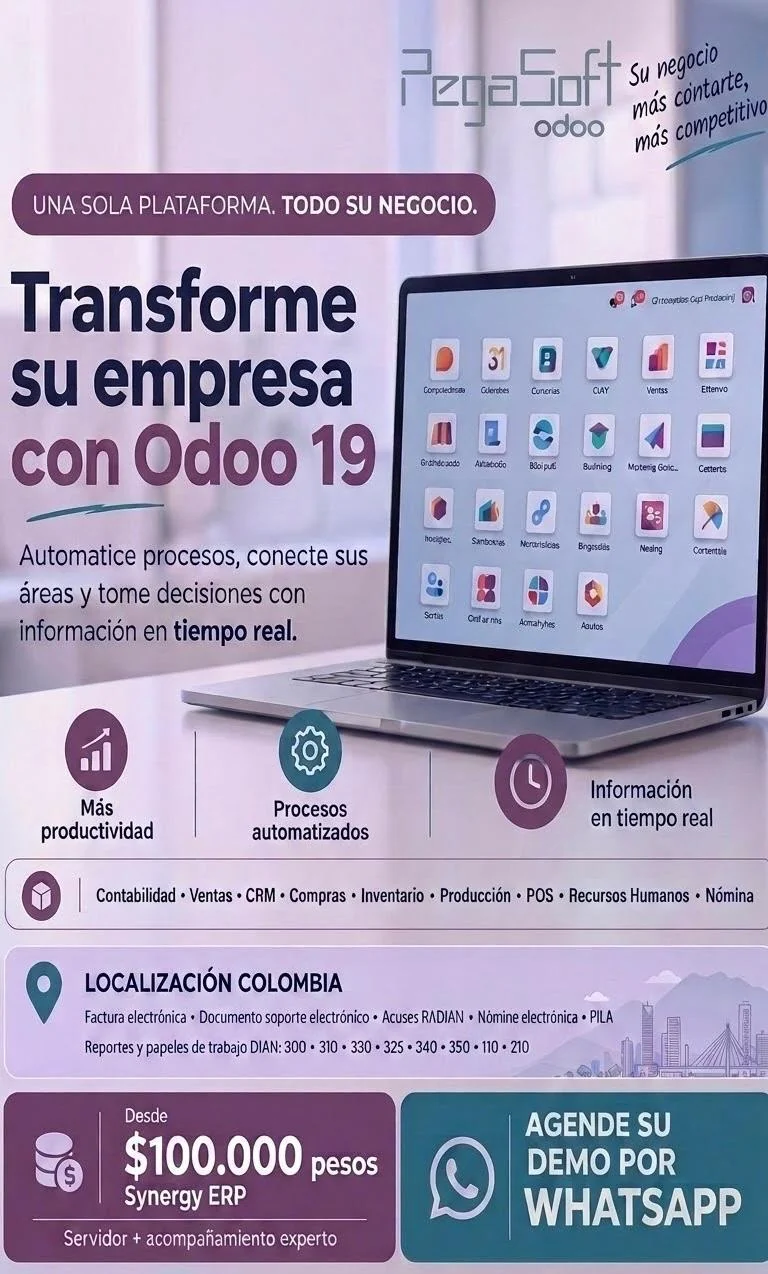
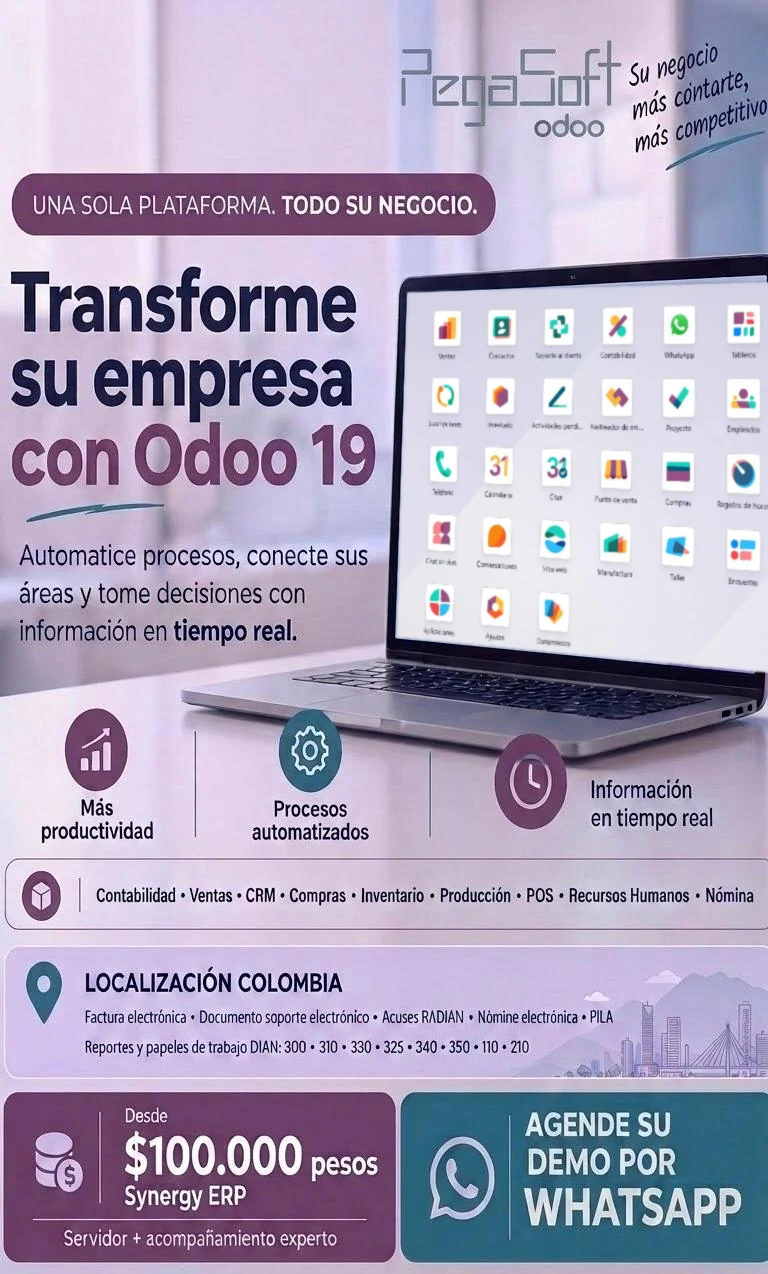
Planes de Mónica con foco en soporte, soporte técnico, portátil corregido y títulos de videos
Claude-Session: https://claude.ai/code/session_01Mc5WrL3zMMahActahP6YoB

Changed region(s): [[0.5, 0.2143, 1.0, 0.551]]

diff --git a/index.html b/index.html
@@ -190,6 +190,30 @@ header.scrolled{background:rgba(6,10,22,.92);box-shadow:0 10px 30px rgba(0,0,0,.
 .lbx:hover{border-color:var(--c)}
 @media(max-width:1180px){.menu{gap:14px;font-size:13px}}
 @media(max-width:1040px){.menu{display:none}}
+
+.psub{text-align:center;color:var(--mut);max-width:34em;margin:8px auto 0}
+.plans{display:grid;grid-template-columns:repeat(auto-fit,minmax(260px,1fr));gap:22px;max-width:1000px;margin:30px auto 0;align-items:stretch}
+.plan{display:flex;flex-direction:column;border:1px solid var(--line);border-radius:24px;overflow:hidden;background:var(--card);transition:transform .25s,border-color .25s,box-shadow .25s}
+.plan:hover{transform:translateY(-5px);border-color:rgba(34,211,238,.5);box-shadow:0 24px 60px rgba(34,211,238,.10)}
+.psup{display:flex;align-items:center;gap:14px;padding:20px 24px;background:linear-gradient(135deg,rgba(34,211,238,.22),rgba(139,92,246,.28));border-bottom:1px solid var(--line)}
+.psup svg{width:34px;height:34px;flex:none;stroke:#67e8f9;fill:none;stroke-width:1.8;stroke-linecap:round;stroke-linejoin:round}
+.psup b{display:block;font-size:28px;line-height:1.05;color:#fff;letter-spacing:-.02em}
+.psup span{font-size:13px;color:#c7d0ee}
+.pbody{display:flex;flex-direction:column;flex:1;padding:22px 24px 24px}
+.pname{font-size:12px;font-weight:700;letter-spacing:.14em;text-transform:uppercase;color:#67e8f9}
+.pbody h4{font-size:22px;color:#fff;margin:4px 0 12px}
+.pprice b{font-size:34px;letter-spacing:-.03em;color:#fff}.pprice small{display:block;color:var(--mut);font-size:13px}
+.pbody ul{list-style:none;padding:0;margin:18px 0 22px;display:grid;gap:10px;color:var(--mut);font-size:15px;flex:1}
+.pbody li{padding-left:24px;position:relative}.pbody li:before{content:"✓";position:absolute;left:0;color:#22d3ee;font-weight:800}
+.pbody .btn{justify-content:center}
+.pnote{text-align:center;color:var(--mut);font-size:14px;margin-top:18px}
+.support{display:grid;grid-template-columns:1.2fr .8fr;gap:28px;align-items:center;max-width:1000px;margin:48px auto 0;padding:32px;border:1px solid var(--line);border-radius:26px;background:linear-gradient(145deg,rgba(255,255,255,.07),rgba(255,255,255,.02));box-shadow:0 30px 80px rgba(0,0,0,.35),inset 0 1px 0 rgba(255,255,255,.1)}
+.support h3{font-size:26px;color:#fff;margin:12px 0 6px}.support p{color:var(--mut);margin-bottom:18px}
+.sprice{border:1px solid rgba(34,211,238,.3);border-radius:18px;padding:18px 20px;background:rgba(34,211,238,.07);margin-bottom:14px}
+.sprice small{display:block;color:var(--mut);font-size:13px}.sprice b{display:block;font-size:42px;line-height:1.1;letter-spacing:-.03em;background:var(--grad);-webkit-background-clip:text;background-clip:text;color:transparent;width:fit-content}
+.sprice span{color:#c7d0ee;font-size:14px}
+.slist{list-style:none;padding:0;margin:0;display:grid;gap:6px;color:var(--mut);font-size:14px}.slist b{color:#fff}
+@media(max-width:820px){.support{grid-template-columns:1fr;padding:24px}}
 </style>
 <script>document.documentElement.classList.add('js')</script>
 </head>
@@ -246,20 +270,47 @@ header.scrolled{background:rgba(6,10,22,.92);box-shadow:0 10px 30px rgba(0,0,0,.
 <div class="mcards"><div class="card"><div class="ic"><svg viewBox="0 0 24 24"><path d="M6 2h9l5 5v15H6z"/><path d="M14 2v6h6M9 13h6M9 17h6"/></svg></div><h3>Facturación</h3><p>Crea, modifica y controla tus facturas, con devoluciones y consolidados de ventas por fechas y clientes.</p></div><div class="card"><div class="ic"><svg viewBox="0 0 24 24"><path d="M21 8 12 3 3 8v8l9 5 9-5z"/><path d="m3 8 9 5 9-5M12 13v8"/></svg></div><h3>Inventarios</h3><p>Existencias, listas de precios, costos, órdenes de compra y kárdex de cada producto.</p></div><div class="card"><div class="ic"><svg viewBox="0 0 24 24"><path d="M4 19V5M4 19h16M8 15v-4M12 15V8M16 15v-6"/></svg></div><h3>Contabilidad</h3><p>Partida doble, libro diario, mayor, balance y estado de ganancias y pérdidas.</p></div><div class="card"><div class="ic"><svg viewBox="0 0 24 24"><path d="M3 7h18v12H3z"/><path d="M3 11h18M7 15h3"/></svg></div><h3>Cuentas por cobrar y pagar</h3><p>Saldos de clientes y proveedores, vencimientos y pagos parciales al día.</p></div><div class="card"><div class="ic"><svg viewBox="0 0 24 24"><path d="M3 10 12 4l9 6M5 10v8M9 10v8M15 10v8M19 10v8M3 20h18"/></svg></div><h3>Bancos y cuentas corrientes</h3><p>Cheques, depósitos y conciliación con el estado de cuenta del banco.</p></div><div class="card"><div class="ic"><svg viewBox="0 0 24 24"><path d="M12 3v12m0 0-4-4m4 4 4-4M4 19h16"/></svg></div><h3>Reportes y respaldos</h3><p>Informes listos para imprimir o exportar y copias de seguridad de tu información.</p></div></div>
 <aside class="mside">
 <h3>Elige tu versión</h3>
-<p>Te ayudamos a escoger la que mejor se ajusta a tu negocio, e instalarla y capacitar a tu equipo.</p>
+<p>Te ayudamos a escoger tu versión y te acompañamos con soporte técnico.</p>
 <a class="ver" href="#contacto" data-ver="8.5"><span><b>Mónica 8.5</b><small>Pedir información</small></span><i>→</i></a>
 <a class="ver" href="#contacto" data-ver="9"><span><b>Mónica 9</b><small>Pedir información</small></span><i>→</i></a>
 <a class="ver" href="#contacto" data-ver="10"><span><b>Mónica 10</b><small>Pedir información</small></span><i>→</i></a>
 <a class="ver" href="#contacto" data-ver="11"><span><b>Mónica 11</b><small>Pedir información</small></span><i>→</i></a>
 <ul class="mfacts">
+<li><b style="color:#fff">Soporte técnico y acompañamiento de PegaSoft.</b></li>
 <li>De un computador a una red de hasta 25 equipos.</li>
 <li>Exporta tus informes a PDF, Excel y Word.</li>
-<li>Soporte y acompañamiento de PegaSoft.</li>
 </ul>
 </aside>
 </div>
-<h3 class="ph">Planes con facturación electrónica</h3>
-<div class="promos one"><figure class="promo"><button class="pimg" type="button" data-full="img/monica-planes.webp" aria-label="Ampliar: Planes de facturación electrónica con Mónica"><img src="img/monica-planes.webp" width="926" height="1280" loading="lazy" alt="Afiche: planes de facturación electrónica con Mónica, en tres niveles: Principiante, Profesional y Experto, con soporte e implementación incluidos."></button><figcaption><b>Planes de facturación electrónica con Mónica</b><a class="btn btn-p btn-sm" href="#contacto" data-msg="Hola, quiero información sobre los planes de facturación electrónica con Mónica.">Solicitar información →</a></figcaption></figure></div>
+<h3 class="ph">Mónica con el respaldo de nuestro soporte</h3>
+<p class="psub">Elige tu versión y el tiempo de soporte y acompañamiento que necesitas.</p>
+<div class="plans"><article class="plan">
+<div class="psup"><svg viewBox="0 0 24 24"><path d="M4 13v-1a8 8 0 0 1 16 0v1M4 13h3v5H5a1 1 0 0 1-1-1zM20 13h-3v5h2a1 1 0 0 0 1-1zM17 19c0 1.5-2 2-5 2"/></svg><div><b>3 meses</b><span>de soporte técnico</span></div></div>
+<div class="pbody"><span class="pname">Principiante</span><h4>Mónica 8.5</h4>
+<div class="pprice"><b>$300.000</b><small>COP · pago único</small></div>
+<ul><li>Implementación incluida</li><li>Facturación electrónica con paquetes</li><li>Acceso a todos los módulos</li></ul>
+<a class="btn btn-p" href="#contacto" data-msg="Hola, quiero información sobre el plan Principiante (Mónica 8.5).">Quiero este plan →</a></div>
+</article><article class="plan">
+<div class="psup"><svg viewBox="0 0 24 24"><path d="M4 13v-1a8 8 0 0 1 16 0v1M4 13h3v5H5a1 1 0 0 1-1-1zM20 13h-3v5h2a1 1 0 0 0 1-1zM17 19c0 1.5-2 2-5 2"/></svg><div><b>1 año</b><span>de soporte técnico</span></div></div>
+<div class="pbody"><span class="pname">Profesional</span><h4>Mónica 9</h4>
+<div class="pprice"><b>$700.000</b><small>COP · pago único</small></div>
+<ul><li>Nube para envío de facturas: 60 facturas incluidas</li><li>Manejo de bodegas, auditoría y sucursales</li><li>Acceso a todos los módulos</li></ul>
+<a class="btn btn-p" href="#contacto" data-msg="Hola, quiero información sobre el plan Profesional (Mónica 9).">Quiero este plan →</a></div>
+</article><article class="plan">
+<div class="psup"><svg viewBox="0 0 24 24"><path d="M4 13v-1a8 8 0 0 1 16 0v1M4 13h3v5H5a1 1 0 0 1-1-1zM20 13h-3v5h2a1 1 0 0 0 1-1zM17 19c0 1.5-2 2-5 2"/></svg><div><b>1 año</b><span>de soporte técnico</span></div></div>
+<div class="pbody"><span class="pname">Experto</span><h4>Mónica 10 o 11</h4>
+<div class="pprice"><b>$1.300.000</b><small>COP · pago único</small></div>
+<ul><li>Facturación electrónica, documento soporte y acuses a proveedores ilimitados</li><li>Manejo de bodegas, auditoría y sucursales</li><li>Acceso a todos los módulos</li></ul>
+<a class="btn btn-p" href="#contacto" data-msg="Hola, quiero información sobre el plan Experto (Mónica 10 o 11).">Quiero este plan →</a></div>
+</article></div>
+<p class="pnote">Configuración instantánea · Satisfacción total o le devolvemos su dinero.</p>
+<div class="support" id="soporte">
+<div class="sleft"><span class="tag">SOPORTE TÉCNICO</span><h3>Soporte técnico de PegaSoft</h3>
+<p>Llámanos o escríbenos y te acompañamos con tu programa.</p>
+<div class="cta-row"><a class="btn btn-p" href="tel:+576016964191,2">Llamar al PBX · Ext. 2</a><a class="btn btn-o" href="https://wa.me/573003450000" target="_blank" rel="noopener">WhatsApp</a><a class="btn btn-o" href="#videos">Ver videos de ayuda</a></div></div>
+<div class="sright"><div class="sprice"><small>Hora o fracción de soporte</small><b>$80.000</b><span>Lunes a viernes · horario de oficina</span></div>
+<ul class="slist"><li><b>PBX</b> +57 (1) 696 4191 · Ext. 2 Soporte técnico</li><li><b>WhatsApp</b> 300 345 0000</li></ul></div>
+</div>
 <p class="mnote">Los módulos disponibles pueden variar según la versión. MONICA es una marca de Technotel Inc.</p>
 </div></section>
 
@@ -329,18 +380,18 @@ header.scrolled{background:rgba(6,10,22,.92);box-shadow:0 10px 30px rgba(0,0,0,.
 <button class="btn btn-p" style="border:0;justify-content:center;cursor:pointer">Enviar mensaje →</button>
 <small style="color:var(--mut)">Tus datos se tratan según nuestra política de privacidad.</small></form></div>
 
-<footer id="soporte"><div class="wrap"><div><a class="logo" style="align-items:flex-start" href="#" aria-label="PegaSoft"><img src="logo-oscuro.png" alt="PegaSoft"></a><p style="margin-top:10px">Especialistas en desarrollo de software y facturación electrónica. +24 años de experiencia.</p></div>
-<div><b>Contacto</b><p><a href="mailto:info@pegasoft.com.co">info@pegasoft.com.co</a><br><a href="tel:+576015275522">+601 527 5522</a><br><a href="https://wa.me/573003450000">+57 300 345 00 00</a></p></div><div><b>Empresa</b><p>Soporte · Política de privacidad · Términos</p></div></div></footer>
+<footer id="pie"><div class="wrap"><div><a class="logo" style="align-items:flex-start" href="#" aria-label="PegaSoft"><img src="logo-oscuro.png" alt="PegaSoft"></a><p style="margin-top:10px">Especialistas en desarrollo de software y facturación electrónica. +24 años de experiencia.</p></div>
+<div><b>Contacto</b><p><a href="mailto:info@pegasoft.com.co">info@pegasoft.com.co</a><br><a href="tel:+576015275522">+601 527 5522</a><br><a href="https://wa.me/573003450000">+57 300 345 00 00</a><br>Soporte: <a href="tel:+576016964191,2">PBX +57 (1) 696 4191 ext. 2</a></p></div><div><b>Empresa</b><p>Soporte · Política de privacidad · Términos</p></div></div></footer>
 <a class="wa" href="https://wa.me/573003450000" target="_blank" rel="noopener" aria-label="WhatsApp"><svg viewBox="0 0 24 24"><path d="M12 2a10 10 0 0 0-8.6 15.1L2 22l5-1.3A10 10 0 1 0 12 2zm5.4 13.9c-.2.6-1.3 1.2-1.8 1.2-.5.1-1 .2-3.3-.7-2.8-1.1-4.5-4-4.7-4.2-.1-.2-1.1-1.5-1.1-2.9s.7-2 1-2.3c.2-.3.5-.3.7-.3h.5c.2 0 .4 0 .6.5l.8 2c.1.2.1.4 0 .5l-.4.6-.3.4c-.1.1-.3.3-.1.6.2.3.8 1.3 1.7 2.1 1.2 1 2.1 1.4 2.4 1.5.3.1.5.1.6-.1l.9-1.1c.2-.3.4-.2.6-.1l1.9.9c.3.1.5.2.5.3.1.2.1.8-.1 1.3z"/></svg></a>
 <div id="lb" role="dialog" aria-modal="true" aria-label="Imagen ampliada" aria-hidden="true"><button class="lbx" type="button" aria-label="Cerrar">×</button><img alt=""></div>
 <script>
 /* Para agregar más videos, añade una línea: {id:'ID_DEL_VIDEO',title:'Título'} */
 (function(){
   var VIDEOS=[
-    {id:'xaAJF35gpBk',title:'Video 1 (título pendiente)'},
+    {id:'xaAJF35gpBk',title:'Impresión remota en Mónica 10'},
     {id:'nNfoYHE78hE',title:'Video 2 (título pendiente)'},
     {id:'iA3jOHugkac',title:'Video 3 (título pendiente)'},
-    {id:'uVEIlJ49CpE',title:'Video 4 (título pendiente)'},
+    {id:'uVEIlJ49CpE',title:'Enviar a PDF desde remoto'},
     {id:'uKiPGxxp4JE',title:'Mónica 8.5 · Demo'},
     {id:'vZc98nb-dcU',title:'Restaurante Odoo'},
     {id:'daClaeZK9YQ',title:'Enviando facturas en Mónica 10'},
@@ -367,7 +418,7 @@ header.scrolled{background:rgba(6,10,22,.92);box-shadow:0 10px 30px rgba(0,0,0,.
 </script>
 <script>
 (function(){
-  var sel=['.head','.vcard','.promo','.shot','.about>div','.stat','.grid3 .card','.mcards .card','.mside','.steps .step','.sec .wrap>div','.feat div','.odoo>div:first-child','.apps','.apps div','.final>div','.final>form'];
+  var sel=['.head','.vcard','.plan','.support','.promo','.shot','.about>div','.stat','.grid3 .card','.mcards .card','.mside','.steps .step','.sec .wrap>div','.feat div','.odoo>div:first-child','.apps','.apps div','.final>div','.final>form'];
   var els=[].slice.call(document.querySelectorAll(sel.join(',')));
   els.forEach(function(el){
     el.classList.add('rv');
